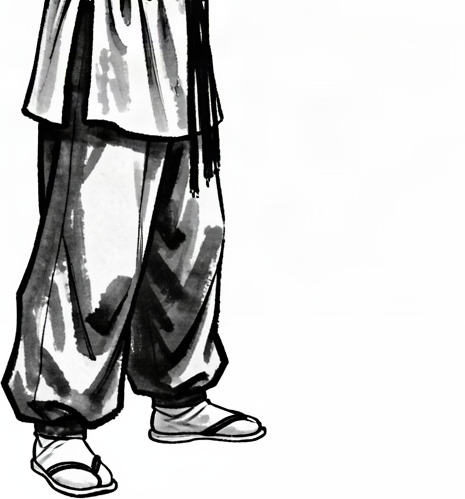
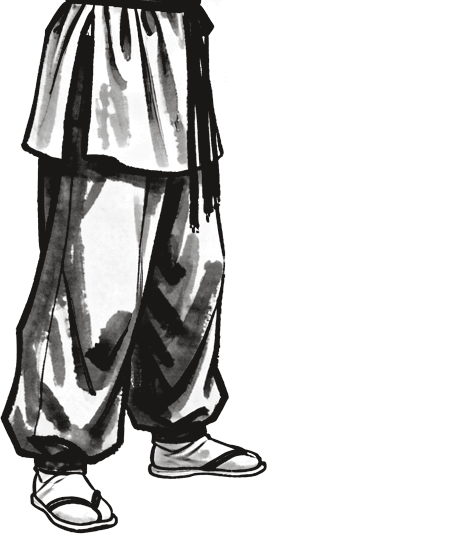
spike 004: ink-alpha layers + corrected cut boxes/pivots

Changed region(s): [[0.0, 0.0, 0.572, 1.0]]

diff --git a/rig/index.html b/rig/index.html
@@ -96,20 +96,20 @@
         <!-- 敵人（假人） -->
         <img class="dummy" id="dummy" src="../art/A/enemy-shanzei.webp" alt=""
              style="left:258px; top:300px; width:200px; opacity:.88; filter:grayscale(.25)">
-        <!-- 骨架部件（left/top = 原圖座標，樞軸寫在 --ox/--oy） -->
-        <img class="p-legs"  id="pLegs"  src="./assets/parts/legs.webp"  alt="" style="left:0px;   top:383px;">
+        <!-- 骨架部件（left/top = 原圖座標，樞軸 = --ox/--oy；z 序由低到高：腿→臂→軀幹→頭） -->
+        <img class="p-legs"  id="pLegs"  src="./assets/parts/legs.webp"  alt="" style="left:0px;   top:348px; z-index:1;">
         <img class="ghostArm" id="pArmGhost" src="./assets/parts/arm_front.webp" alt=""
-             style="left:158px; top:0px; --ox:28px; --oy:172px; z-index:2; display:none;">
+             style="left:213px; top:0px; --ox:3px; --oy:176px; z-index:2; display:none;">
         <img class="p-arm"   id="pArm"   src="./assets/parts/arm_front.webp" alt=""
-             style="left:158px; top:0px; --ox:28px; --oy:172px; z-index:4;">
+             style="left:213px; top:0px; --ox:3px; --oy:176px; z-index:2;">
         <img class="p-torso" id="pTorso" src="./assets/parts/torso.webp" alt=""
-             style="left:0px; top:136px; --ox:112px; --oy:261px; z-index:5;">
+             style="left:0px; top:149px; --ox:112px; --oy:199px; z-index:3;">
         <img class="p-head"  id="pHead"  src="./assets/parts/head.webp"  alt=""
-             style="left:0px; top:0px;   --ox:135px; --oy:137px; z-index:6;">
+             style="left:0px; top:0px;   --ox:135px; --oy:137px; z-index:4;">
         <div id="joints">
           <div class="joint" style="left:135px; top:137px;"></div><!-- 頸 -->
-          <div class="joint" style="left:112px; top:397px;"></div><!-- 腰 -->
-          <div class="joint" style="left:186px; top:172px;"></div><!-- 肩 -->
+          <div class="joint" style="left:112px; top:348px;"></div><!-- 腰 -->
+          <div class="joint" style="left:216px; top:176px;"></div><!-- 肩 -->
         </div>
       </div>
     </div>
@@ -124,8 +124,8 @@
     <table class="k">
       <tr><th>部件</th><th>樞軸</th><th>動作</th></tr>
       <tr><td>head</td><td>頸 (135,137)</td><td>−4° → +3°（隨身體轉）</td></tr>
-      <tr><td>torso</td><td>腰 (112,397)</td><td>−5° → +7°（前壓）</td></tr>
-      <tr><td>arm_front</td><td>肩 (186,172)</td><td>−27° → +15°（收 → 刺）</td></tr>
+      <tr><td>torso</td><td>腰 (112,348)</td><td>−5° → +7°（前壓）</td></tr>
+      <tr><td>arm_front</td><td>肩 (216,176)</td><td>−27° → +15°（收 → 刺），壓在軀幹之下</td></tr>
       <tr><td>legs</td><td>—（根）</td><td>整個舞台向前撲 30px</td></tr>
     </table>
   </div>
